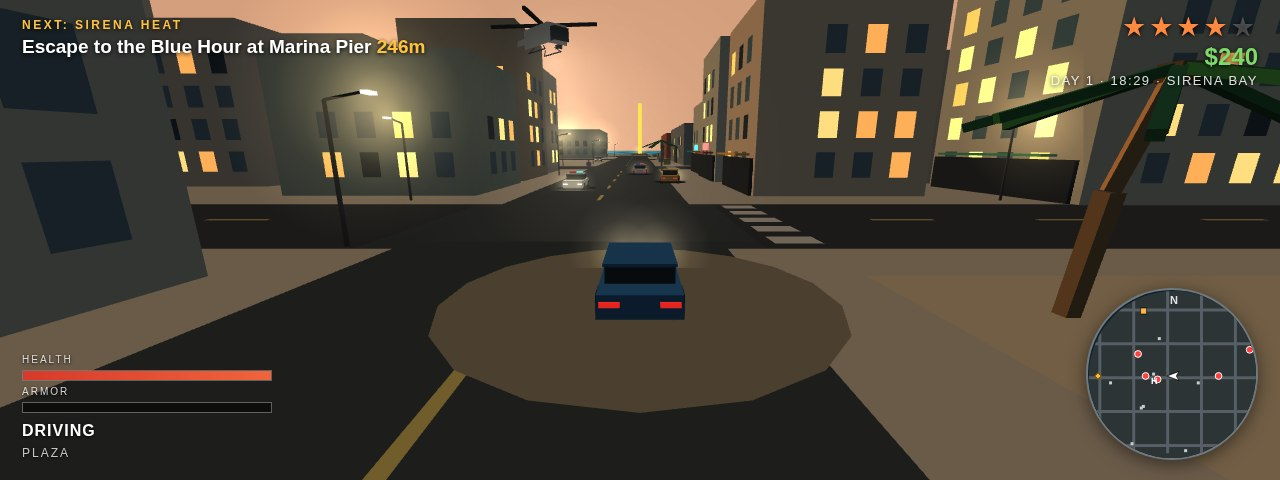
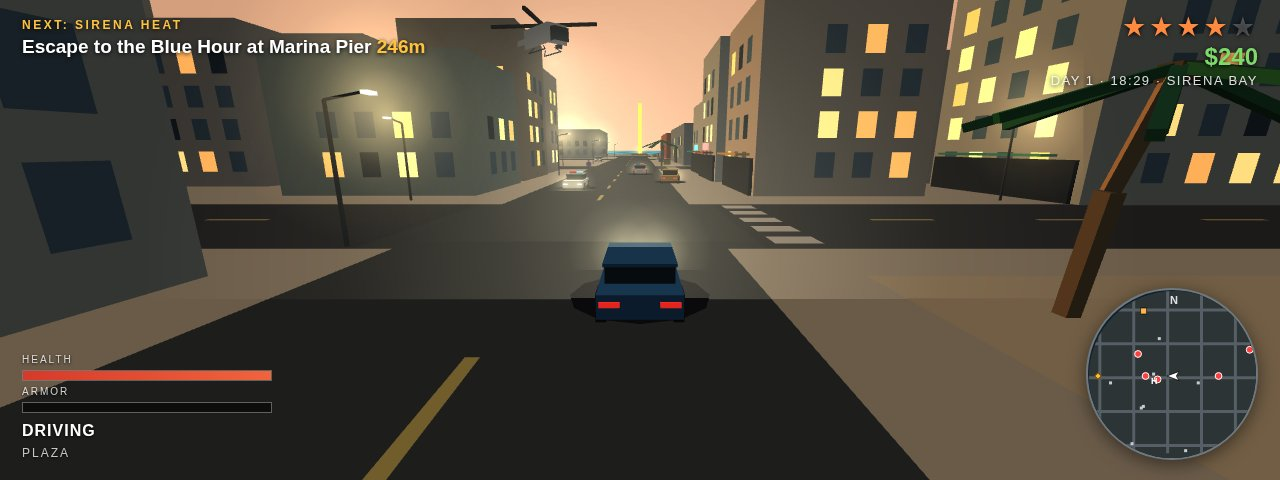
Polish README, refresh chase screenshot

Changed region(s): [[0.3125, 0.0312, 0.6875, 0.875]]

diff --git a/game/src/world.js b/game/src/world.js
@@ -425,7 +425,11 @@ export class World {
         lightPhase: (this.time * 1.35) % 1,
       });
       if (darkness > 0.15 && !h.leaving) {
-        b.disc(h.spotX, 0.1, h.spotZ, 5.0, rgb(0x4a4234), 0.55, 18);
+        // The pool of light on the ground is a soft glow sprite, never a flat disc: a
+        // hard-edged disc under the target reads as a solid rug and makes a car sitting
+        // in the beam look like it floats above the road (the street lamps below lost
+        // their discs for exactly this reason).
+        pushGlow(glow, h.spotX, 1.15, h.spotZ, 1, 0.96, 0.8, 13, 0.30 * darkness + 0.06);
         for (const t of [0.3, 0.55, 0.8]) {
           const gx = h.x + (h.spotX - h.x) * t, gz = h.z + (h.spotZ - h.z) * t;
           const gy = h.y + (0.4 - h.y) * t;

diff --git a/README.md b/README.md
@@ -6,39 +6,53 @@
 
 Submitted to the [make.fun gta6-01 bounty](https://make.fun/bounty/gta6-01).
 
-A 3D open-world crime game that runs in a desktop browser from static files — no build
-step, no libraries, no network requests. Hand-rolled WebGL2, a full day cycle, and a small
-coastal city that minds its own business until you start something.
+**SIRENA HEAT** is a 3D open-world crime game that runs in a desktop browser from plain
+static files. No build step, no libraries, no network requests — just a hand-rolled WebGL2
+engine, a small coastal city with a full day cycle, and a bay that minds its own business
+until you start something.
+
+You are **Marco Reyes**, home in Sirena Bay after ten years away. Explore the whole city on
+foot or behind the wheel from the first minute, work the six-mission story, build a wanted
+level the SBPD answers with interceptors, roadblocks and a helicopter — or just cruise the
+beachfront at golden hour with the radio on.
 
 ## The story
 
-Marco Reyes comes home to Sirena Bay after ten years away. The family hotel is failing,
-his sister Lucia runs the bay's quiet economy out of a safehouse in Old Town, and El Faro —
-the old lighthouse keeper turned smuggler — has decided the whole coast is his. Six chained
-story missions take Marco from errand boy to the man who takes the bay back: meet the crew,
-lift a collector's coupe, run a package through a pier full of Faro's boys, clear Bahía
-Market in daylight, steal the toll truck under the lighthouse, and face Tito Marín at Plaza
-del Sol before escaping to the Blue Hour at the marina.
+The Reyes family hotel is failing. Marco's sister Lucia runs the bay's quiet economy out of
+a safehouse in Old Town, and El Faro — the old lighthouse keeper turned smuggler — has
+decided the whole coast belongs to him. Six chained story missions take Marco from errand
+boy to the man who takes the bay back: meet the crew, lift a collector's coupe, run a
+package through a pier full of Faro's boys, clear Bahía Market in daylight, steal the toll
+truck under the lighthouse, and face Tito Marín at Plaza del Sol before escaping to the
+Blue Hour at the marina.
 
 ## What's in the bay
 
-- **A living city** — five districts (Downtown, Beachfront, Old Town, Marina, Hills) on a
-  street grid with traffic that follows lanes and brakes for you, pedestrians who stroll,
-  flee gunfire and witness crimes, palms, neon, a marina with moored boats and a lighthouse.
-- **Driving** — seven car types with arcade physics and real drift, traffic to dodge,
-  anything parked or driven can be entered — steal a car in front of witnesses and see.
-- **The SBPD** — a five-star wanted system. Pursuit cars steer for where you'll be,
-  officers get out and fight on foot, roadblocks wait at four stars, and at three a
-  helicopter puts its searchlight on you; at five, its door gunner opens up.
-- **Combat** — fists, a pistol and an SMG, hitscan with tracers, headshots, cover that
+- **A living city** — a 7×7 grid of city blocks (46 m blocks on a 62 m pitch, 16 m roads)
+  across five districts: Downtown, Beachfront, Old Town, Marina and the Hills. Palms, neon,
+  moored boats, a working lighthouse, lit windows after dark, and a minimap with police
+  blips and the gold mission beacon.
+- **Driving and carjacking** — seven vehicle types (sedan, hatch, coupe, pickup, van, taxi
+  and the SBPD Interceptor) with arcade physics and real drift. Any parked or driven car
+  can be entered — steal one in front of witnesses and see what happens.
+- **Traffic and pedestrians** — traffic follows lanes, brakes for you and flees a crash;
+  pedestrians stroll, panic at gunfire, and witness crimes, which is how heat starts.
+- **The SBPD and the wanted system** — a five-star wanted level. Pursuit cars steer for
+  where you *will* be, officers get out and fight on foot, roadblocks wait at four stars,
+  at three stars a helicopter puts its searchlight on you, and at five its door gunner
+  opens up. Break line of sight, swap into a clean car or get fresh plates to cool down.
+- **Combat** — fists, a pistol and an SMG: hitscan with tracers, headshots, cover that
   genuinely works, health and armour.
-- **An economy** — Sirena Arms (guns, ammo, armour), Reef Customs (repair, respray, fresh
-  plates that shed heat), and the Reyes Safehouse (save, rest, next mission).
-- **Sound, all synthesised** — a WebAudio engine for gunfire, crashes and sirens, and a
-  four-station generative radio (island pop, reggae, synthwave, salsa) that only plays
-  while you drive.
-- **A day that turns** — golden-hour light, lit windows and neon after dark, a minimap with
-  police blips and the gold mission beacon, and a save in localStorage.
+- **Shops and an economy** — Sirena Arms (guns, ammo, armour), Reef Customs (repairs,
+  resprays, fresh plates that shed heat) and the Reyes Safehouse (rest, save, and pick up
+  the next mission).
+- **Radio and sound, all synthesised** — a WebAudio engine for gunfire, crashes, engines
+  and sirens, plus a four-station generative radio (island pop, reggae, synthwave, salsa)
+  that only plays while you drive. No audio files anywhere.
+- **Save anywhere** — progress, money, weapons and story state persist in the browser's
+  localStorage; Continue picks up right where you left off.
+- **A day that turns** — a keyframed 24-hour sky: dawn haze, hard noon light, golden hour,
+  and a neon night, all computed from the in-game clock.
 
 ## Controls
 
@@ -56,26 +70,69 @@ del Sol before escaping to the Blue Hour at the marina.
 | R | Radio station (in a car) |
 | P / Esc | Pause |
 
-## Running it
+## How to run
 
-Serve `game/` with anything static, e.g. `python3 -m http.server -d game 8080`, and open
-`http://localhost:8080`. The entry's hand-in program is `main.ts` at the repository root:
-`MAKEFUN_OUTPUT_DIR=out node main.ts` copies the game and screenshots into `out/` and
-writes the dossier.
+The game is static files — serve the `game/` folder with anything and open it in a desktop
+browser:
 
-Staged scenes for screenshots: `game/index.html?shot=cover|chase|mission|night&seed=1`
-builds the world from the seed, plays the real simulation forward a fixed number of steps
-and freezes on the composed frame.
+```sh
+python3 -m http.server -d game 8080
+# then open http://localhost:8080
+```
+
+Any static file server works (or your editor's "open in browser" preview, as long as ES
+modules load over `http://` — opening `game/index.html` via `file://` will not work in most
+browsers because module scripts require a server origin).
+
+The repository root also carries the make.fun hand-in program, `main.ts` (Node, standard
+library only):
+
+```sh
+mkdir -p out && MAKEFUN_OUTPUT_DIR=out node main.ts
+```
+
+That copies `game/` and `screenshots/` into `out/` and writes the entry's `dossier.json`
+there with the vendored library in `vendor/`. It does nothing else — no timestamps, no
+randomness — so two runs over the same repository produce byte-identical output.
+
+Staged screenshot scenes: `game/index.html?shot=cover|chase|mission|night&seed=1` builds
+the world from the seed, plays the real simulation forward a fixed number of steps and
+freezes on the composed frame — the chase really is four stars of SBPD behind a coupe, the
+mission scene really is the pier at golden hour.
+
+## Tech notes
+
+- **Rendering** — a hand-rolled WebGL2 engine: one static mesh batch for the whole city,
+  one dynamic batch rebuilt per frame, flat-shaded vertex colours everywhere, and a single
+  canvas-painted radial sprite for every additive glow (lamps, headlights, muzzle flashes,
+  the helicopter searchlight). The only texture in the game is that glow sprite.
+- **Code** — plain ES modules under `game/src/`, one module per system (see Layout below).
+  No dependencies, no bundler, no transpiler: what you read is what the browser runs.
+- **Offline by construction** — the game makes zero network requests; fonts, audio and
+  textures are all generated at boot. It runs from a USB stick.
+- **Simulation** — a fixed 60 Hz timestep with a seeded RNG, so the staged scenes, the
+  title orbit and the live game all agree, and a scene re-renders identically every time.
+- **Persistence** — saves live in `localStorage` under a single key; nothing leaves the
+  machine.
 
 ## Layout
 
 - `main.ts` — the hand-in program (plumbing only).
 - `vendor/makefun-game.ts` — the vendored make.fun dossier library, unchanged.
-- `game/src/` — the game itself, one module per system: `gl` and `renderer` (WebGL2,
-  mesh building, sky and lighting), `citygen` (the city), `world` (the simulation),
-  `player`, `vehicles`, `traffic`, `pedestrians`, `police`, `helicopter`, `wanted`,
-  `weapons`, `missions` + `story`, `shops`, `hud`, `minimap`, `radio`, `audio`,
-  `input`, `save`, `shots`, `models`, `math3d`, `rng`, `textures`.
+- `game/index.html` — the page, HUD and menus.
+- `game/src/` — the game itself, one module per system:
+  - `gl` and `renderer` — WebGL2 plumbing, mesh building, sky and the lighting model.
+  - `citygen` — the 7×7 city: districts, roads, buildings, colliders, landmarks.
+  - `world` — the simulation core and per-frame scene building.
+  - `player`, `vehicles`, `traffic`, `pedestrians` — Marco, the seven car types, lane
+    traffic and the crowd.
+  - `police`, `helicopter`, `wanted` — pursuit AI, the searchlight, the five-star system.
+  - `weapons`, `missions`, `story` — combat and the six-mission campaign.
+  - `shops`, `hud`, `minimap` — the economy and everything on screen.
+  - `radio`, `audio` — the four-station generative radio and the synth sound engine.
+  - `input`, `save`, `shots` — controls, localStorage saves, the staged scenes.
+  - `models`, `math3d`, `rng`, `textures` — car/ped geometry, maths, the seeded RNG and
+    the glow sprite.
 
 ## License
 
